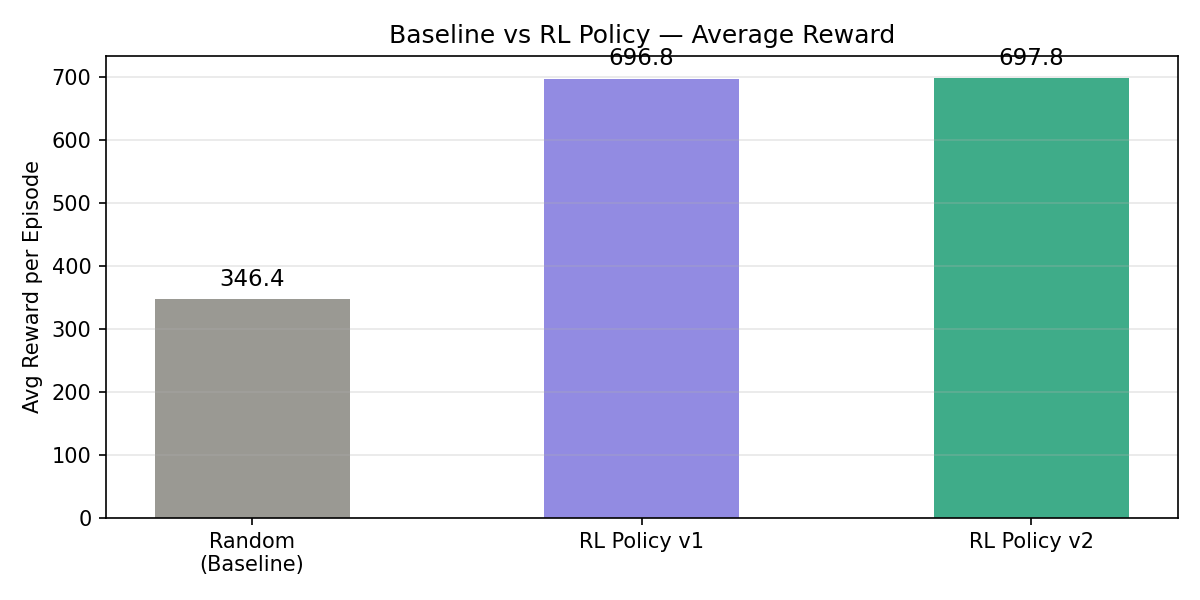
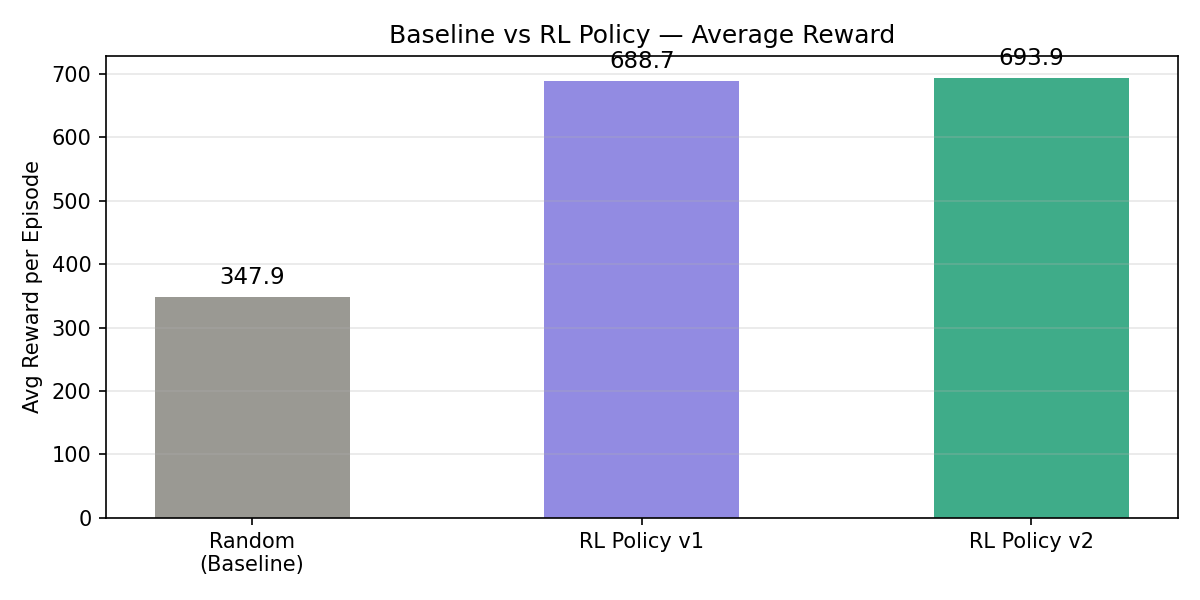
Add MLflow tracking and GitHub Actions CI pipeline

diff --git a/train.py b/train.py
@@ -4,7 +4,7 @@ import pandas as pd
 import uuid
 import os
 import yaml
-
+import mlflow   # ← moved here
 
 os.makedirs("models", exist_ok=True)
 os.makedirs("logs", exist_ok=True)
@@ -14,7 +14,6 @@ CONFIG_PATH = "configs/qlearning_v2.yaml"
 
 with open(CONFIG_PATH, "r") as f:
     config = yaml.safe_load(f)
-
 
 env = AdaptiveTutorEnv()
 agent = QAgent()
@@ -31,57 +30,54 @@ steps_per_episode = config["steps_per_episode"]
 run_id = str(uuid.uuid4())
 logs = []
 
+mlflow.set_experiment("adaptive_tutor")  # ← set experiment before the loop
 
-for ep in range(episodes):
+with mlflow.start_run(run_name=os.path.basename(CONFIG_PATH)):
 
-    state = env.reset()
-    total_reward = 0
-
-    for _ in range(steps_per_episode):
-
-        action = agent.choose_action(state)
-
-        next_state, reward, done = env.step(action)
-
-        agent.update(
-            state,
-            action,
-            reward,
-            next_state
-        )
-
-        state = next_state
-        total_reward += reward
-
-    agent.epsilon = max(
-        agent.epsilon_min,
-        agent.epsilon * agent.epsilon_decay
-    )
-
-    logs.append({
-        "run_id": run_id,
-        "episode": ep,
-        "reward": total_reward,
-        "epsilon": agent.epsilon,
-        "alpha": agent.alpha,
-        "gamma": agent.gamma
+    mlflow.log_params({
+        "alpha": config["alpha"],
+        "gamma": config["gamma"],
+        "epsilon": config["epsilon"],
+        "epsilon_decay": config["epsilon_decay"],
+        "episodes": episodes
     })
 
-    if ep % 50 == 0:
-        print(
-            f"Episode {ep} | "
-            f"Reward={total_reward} | "
-            f"Epsilon={agent.epsilon:.3f}"
-        )
+    for ep in range(episodes):
+        state = env.reset()
+        total_reward = 0
 
+        for _ in range(steps_per_episode):
+            action = agent.choose_action(state)
+            next_state, reward, done = env.step(action)
+            agent.update(state, action, reward, next_state)
+            state = next_state
+            total_reward += reward
 
-model_name = os.path.basename(CONFIG_PATH).replace(".yaml", ".pkl")
-agent.save(f"models/{model_name}")
+        agent.epsilon = max(agent.epsilon_min, agent.epsilon * agent.epsilon_decay)
 
-csv_name = os.path.basename(CONFIG_PATH).replace(".yaml", ".csv")
+        logs.append({
+            "run_id": run_id,
+            "episode": ep,
+            "reward": total_reward,
+            "epsilon": agent.epsilon,
+            "alpha": agent.alpha,
+            "gamma": agent.gamma
+        })
 
-pd.DataFrame(logs).to_csv(
-    f"logs/{csv_name}",
-    index=False
-)
+        mlflow.log_metric("reward", total_reward, step=ep)  # ← log per episode too
+
+        if ep % 50 == 0:
+            print(f"Episode {ep} | Reward={total_reward} | Epsilon={agent.epsilon:.3f}")
+
+    model_name = os.path.basename(CONFIG_PATH).replace(".yaml", ".pkl")
+    agent.save(f"models/{model_name}")
+
+    csv_name = os.path.basename(CONFIG_PATH).replace(".yaml", ".pkl").replace(".pkl", ".csv")
+    pd.DataFrame(logs).to_csv(f"logs/{csv_name}", index=False)
+
+    mlflow.log_metric("avg_reward", pd.DataFrame(logs)["reward"].mean())
+    mlflow.log_metric("final_epsilon", agent.epsilon)
+    mlflow.log_artifact(f"models/{model_name}")
+    mlflow.log_artifact(f"logs/{csv_name}")
+
 print("\nTraining complete!")